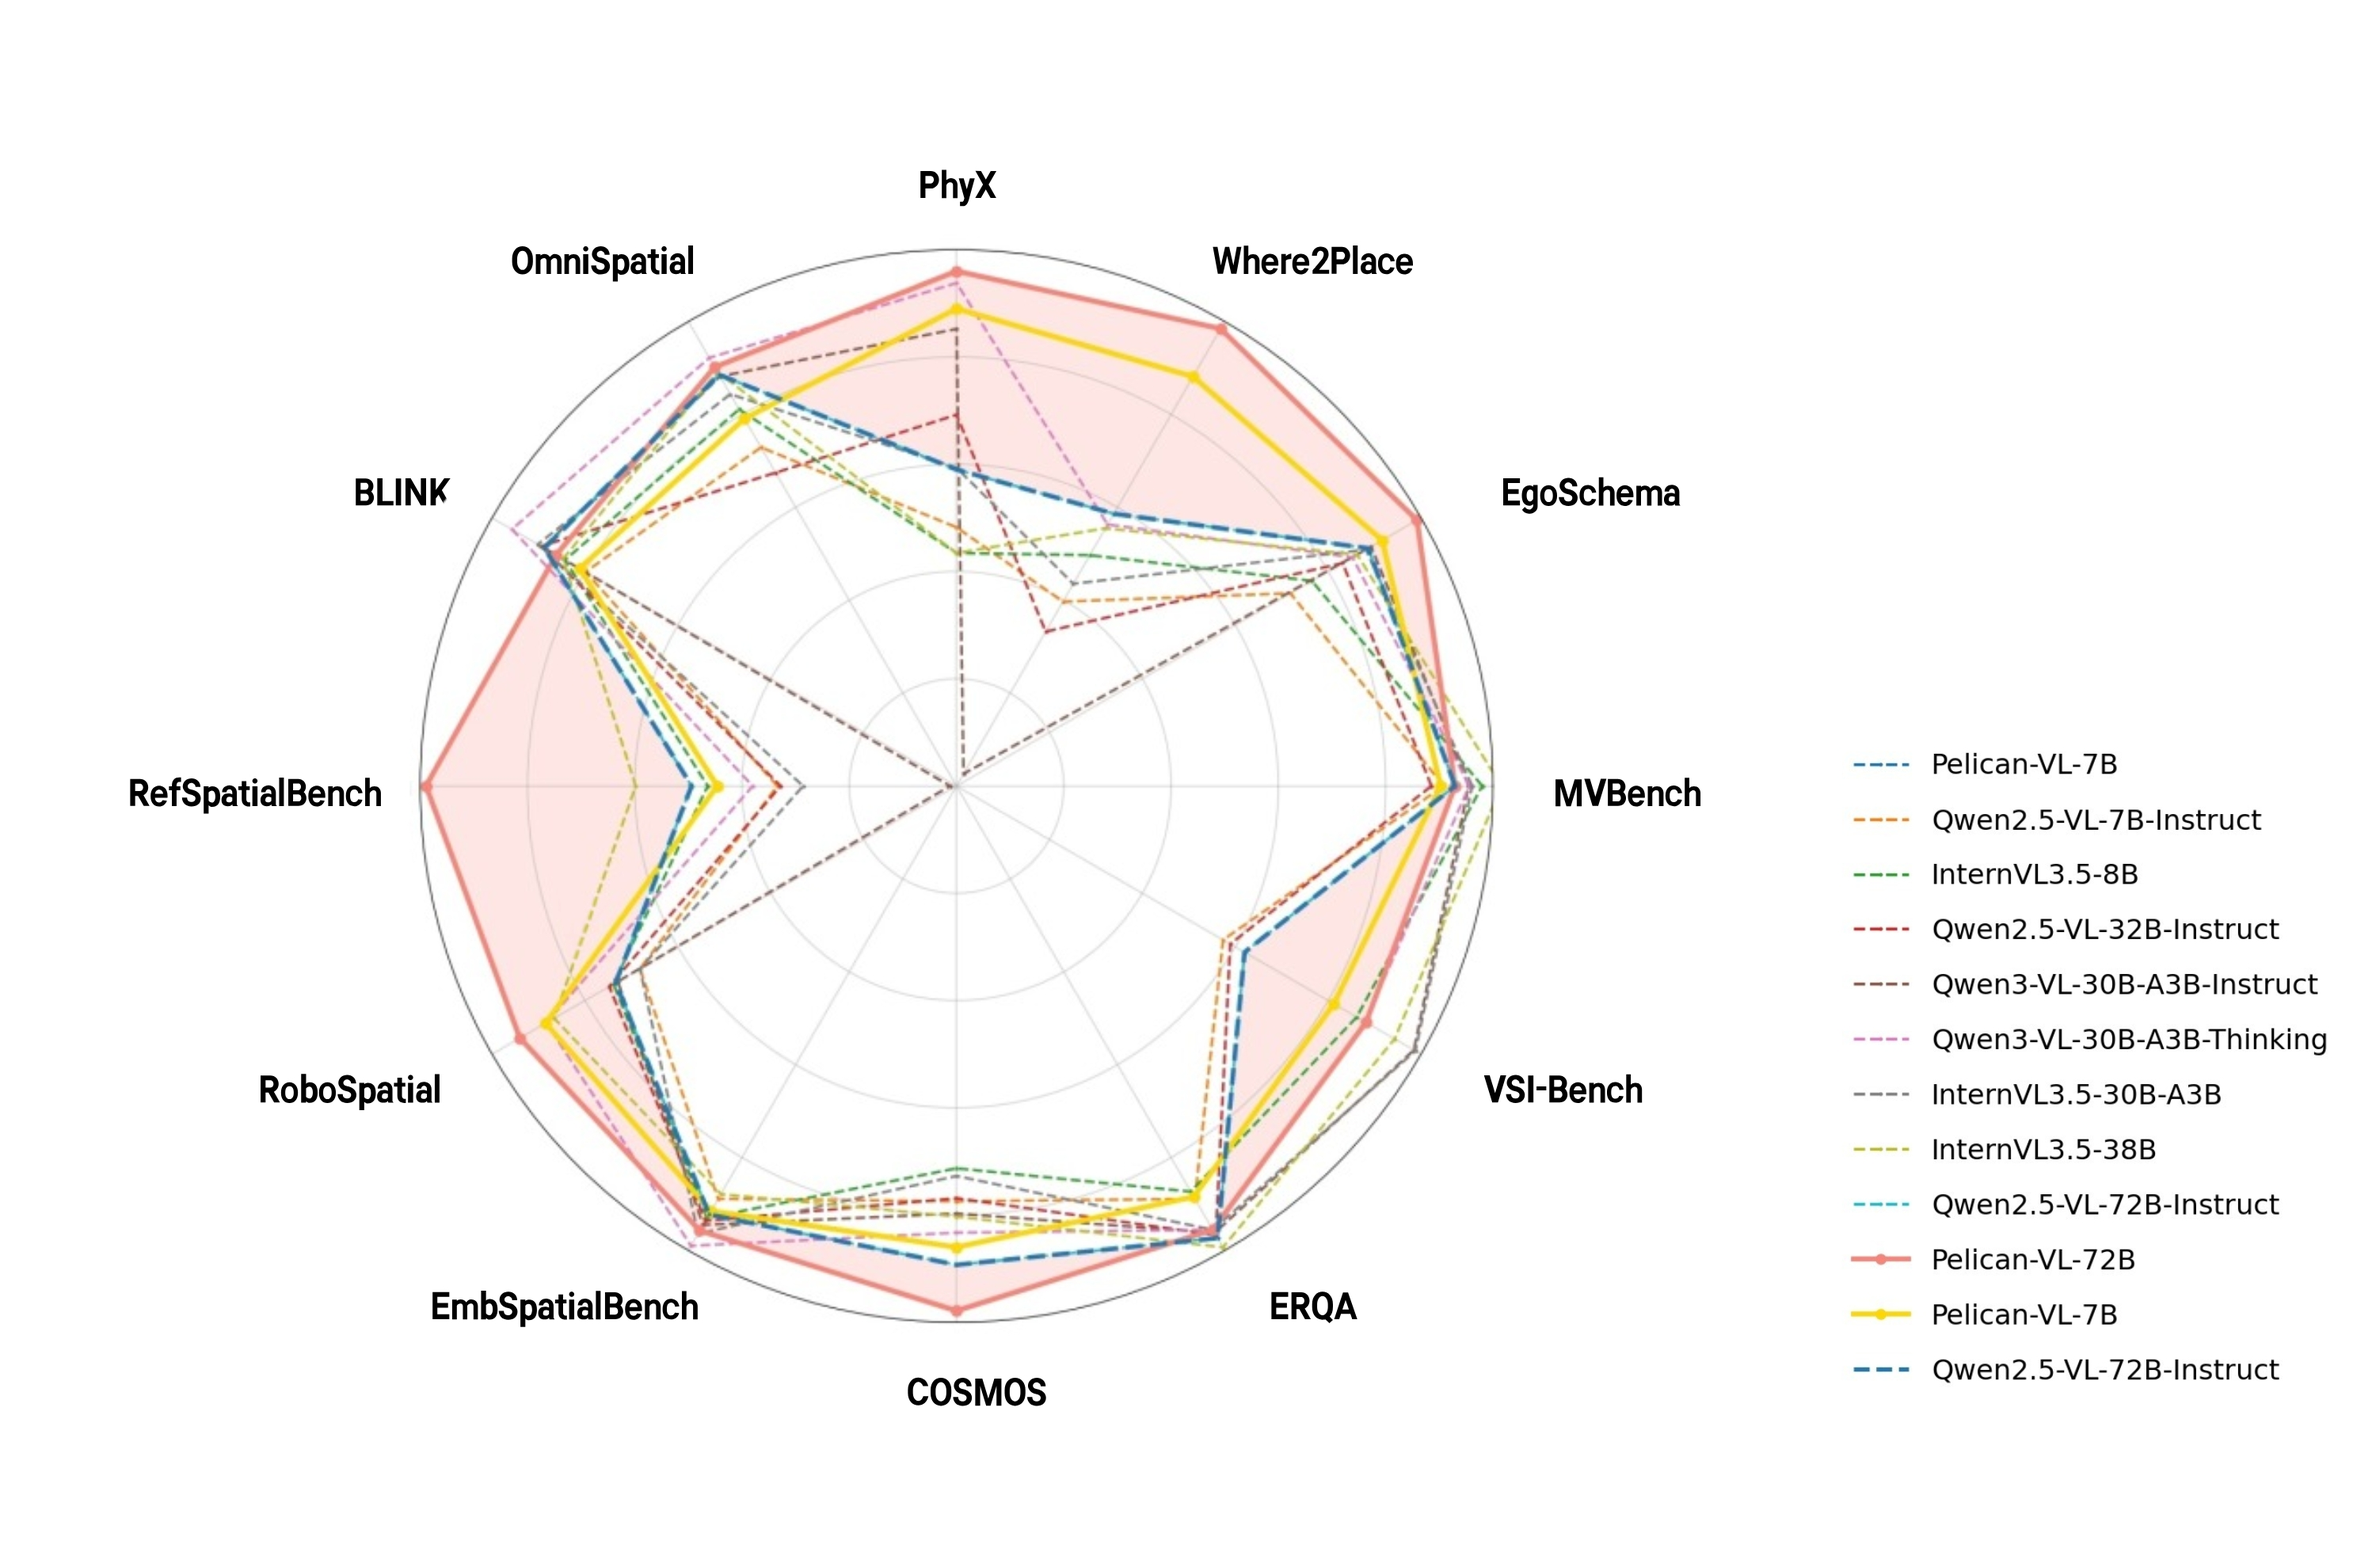
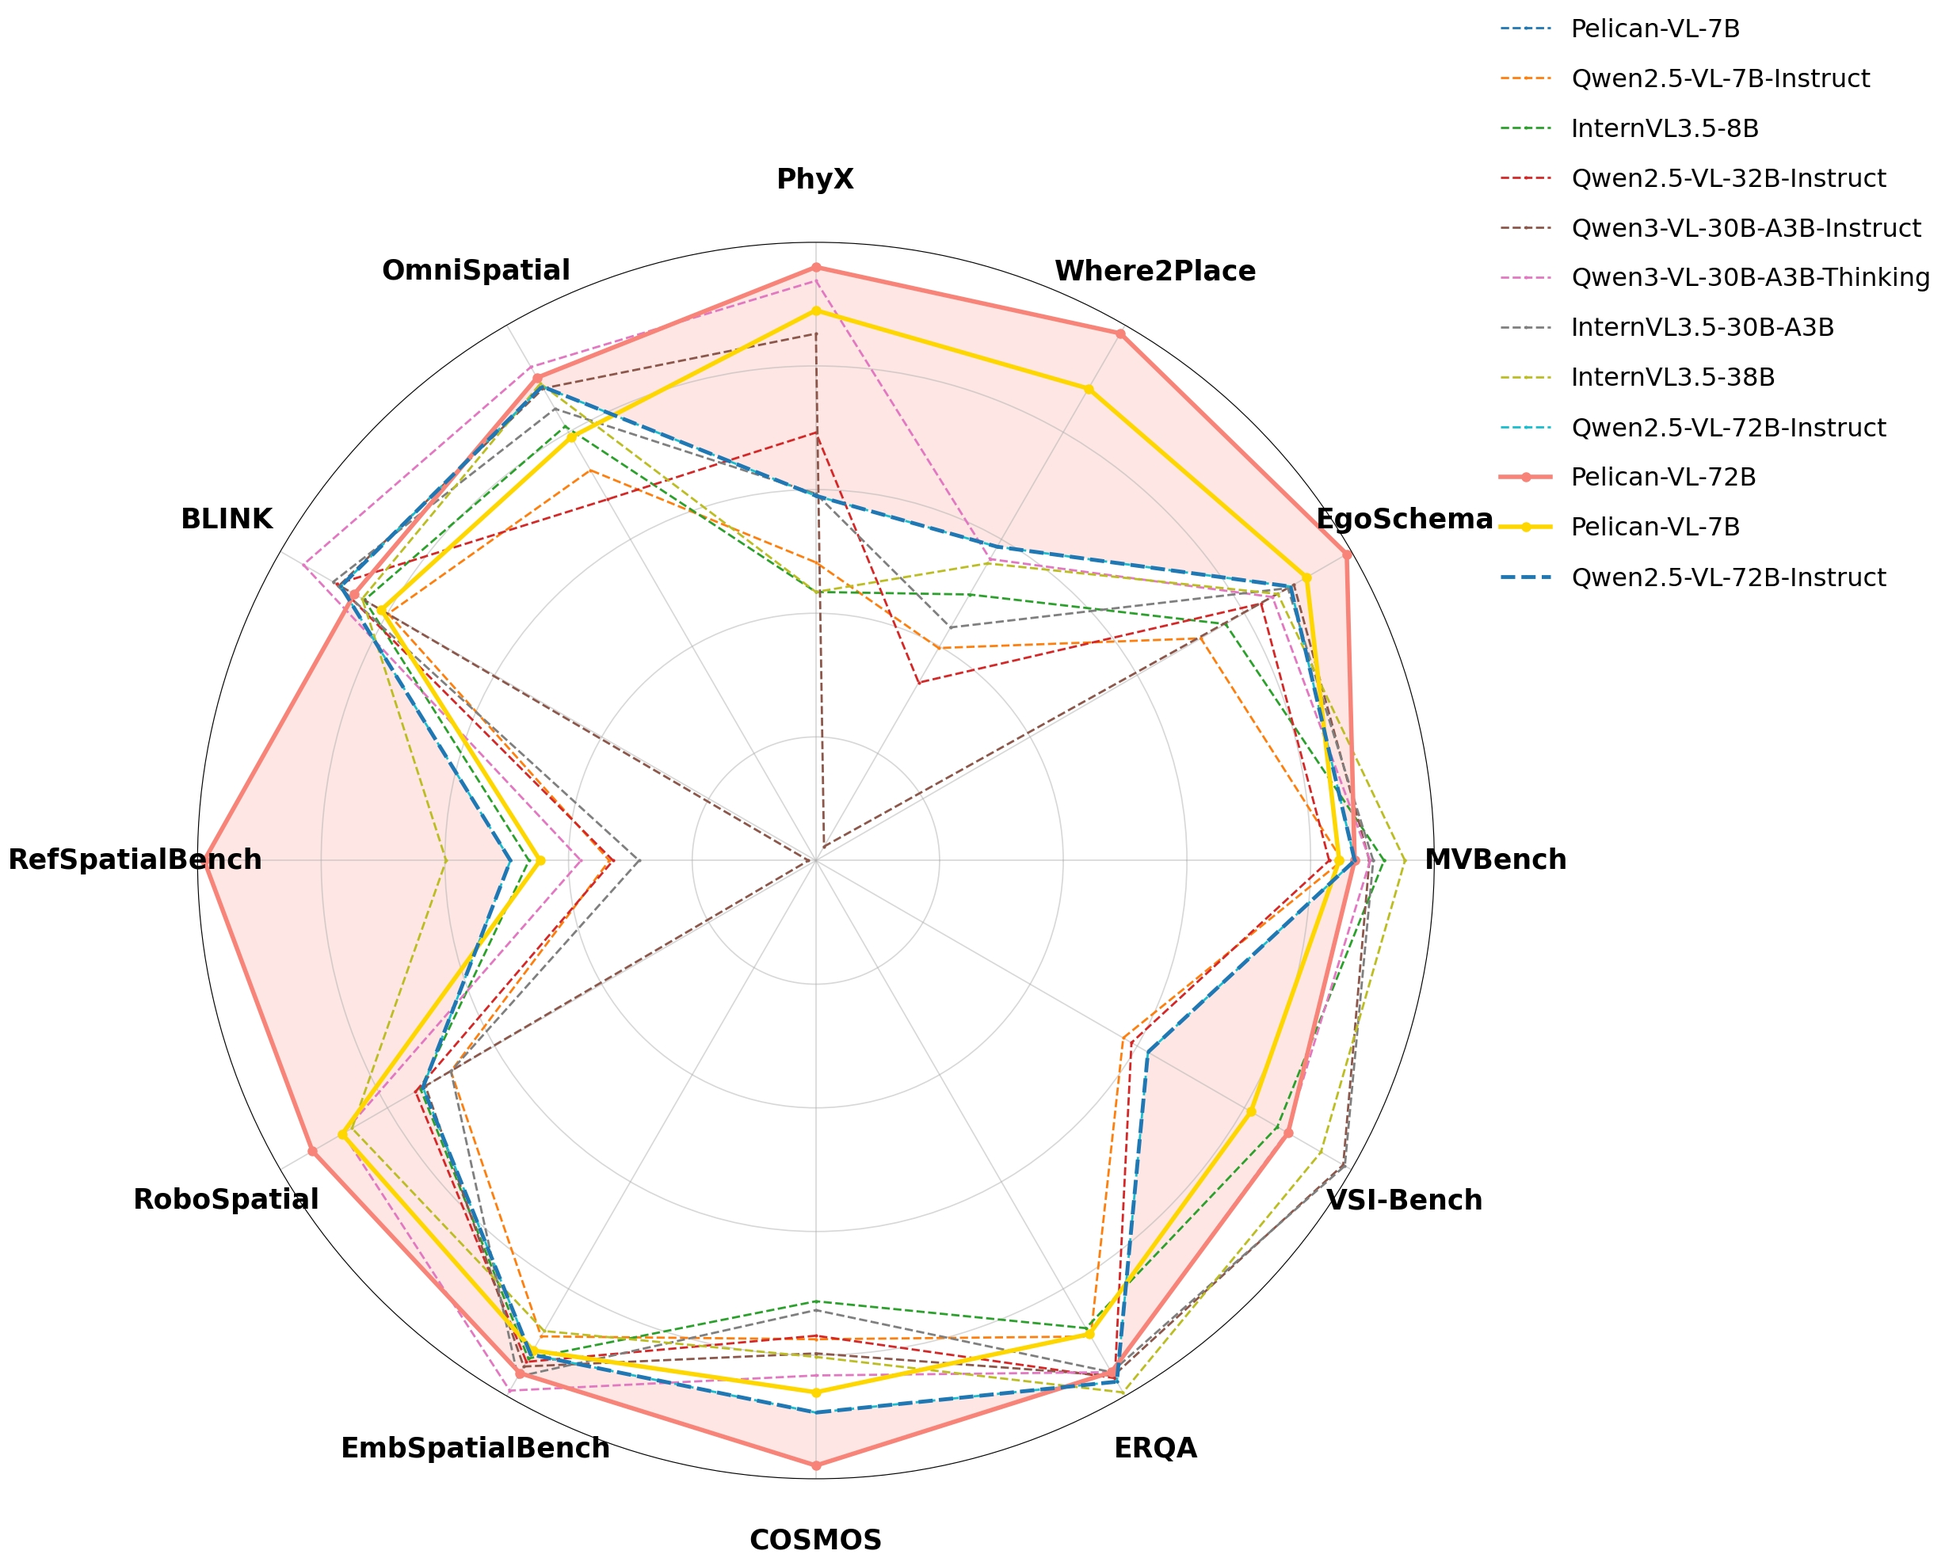
fix

diff --git a/README.md b/README.md
@@ -23,7 +23,7 @@
     <img src="./images/x_humanoid_logo_v3.png" width="400"/>
 <p> -->
 
-## 🚀🚀🚀 News
+## 🚀 News
 
 * 2025.10.30: We have released the [**Pelican-VL 1.0 Report**](https://arxiv.org/pdf/2511.00108). The 7B、72B model for open source is coming soon. For more details, please check our report!
 
